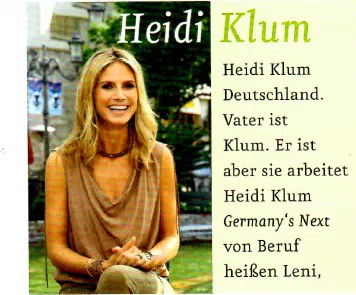
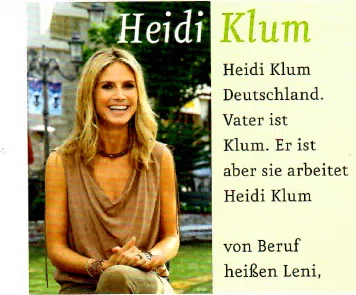
KB11 p18/p21/p23: italics, spacing, row width fixes

Changed region(s): [[0.618, 0.7017, 0.927, 0.7932]]

diff --git a/src/components/NativeKb11.tsx b/src/components/NativeKb11.tsx
@@ -33,7 +33,7 @@ function Inner({data}:{data:NativePage}){
  return <div className="nkb" data-native-page={data.page} data-native-book="kb-a11" style={{'--paper':data.paper||'#fdfcf8','--ratio':W/H,'--nkb-tool':data.audio.length?'46px':'0px'} as CSSProperties}>
   <div className="nkbCanvas" ref={root} style={{aspectRatio:`${W}/${H}`}}>
    {data.art.map((a,i)=><PageImage key={i} className="nkbArt" src={a.src} alt="" draggable={false} style={pos(a.x,a.y,a.w,a.h)}/>)}
-   {(data.blocks||[]).map((bl,i)=><div key={'b'+i} className={'nkbLine'+(bl.sb?' nkbSB':bl.b?' nkbB':'')+(bl.sa?' nkbSans':'')} data-tw={bl.w} style={{left:bl.x/W*100+'%',top:(bl.cy-bl.f*0.62)/H*100+'%',fontSize:bl.f/W*100+'cqw',lineHeight:1.24}}>{bl.ws.map((w,j)=>{const tap=/[A-Za-zÄÖÜäöüß]/.test(w.t);return <span key={j}>{j>0?' ':''}<span {...(tap?{className:'tapWord',role:'button',tabIndex:0,'data-word':w.t.replace(/^[.,!?„"()]+|[.,!?“"()]+$/g,''),'data-phrase':w.ph||w.t}:{})} style={{color:w.c,fontStyle:(w as any).i?'italic':undefined}}>{w.t}</span></span>})}</div>)}
+   {(data.blocks||[]).map((bl,i)=><div key={'b'+i} className={'nkbLine'+(bl.sb?' nkbSB':bl.b?' nkbB':'')+(bl.sa?' nkbSans':'')} data-tw={bl.w} style={{left:bl.x/W*100+'%',top:(bl.cy-bl.f*0.62)/H*100+'%',fontSize:bl.f/W*100+'cqw',lineHeight:1.24}}>{bl.ws.map((w,j)=>{const tap=/[A-Za-zÄÖÜäöüß]/.test(w.t);return <span key={j}>{j>0?' ':''}<span {...(tap?{className:'tapWord',role:'button',tabIndex:0,'data-word':w.t.replace(/^[.,!?„"()]+|[.,!?“"()\u2009]+$/g,''),'data-phrase':w.ph||w.t}:{})} style={{color:w.c,fontStyle:(w as any).i?'italic':undefined}}>{w.t}</span></span>})}</div>)}
    {lines.map((w,i)=>{const tap=/[A-Za-zÄÖÜäöüß]/.test(w.t);return <span key={i} className={'nkbWord nkbGhost'+(tap?' tapWord':'')} {...(tap?{role:'button',tabIndex:0,'data-word':w.t.replace(/^[.,!?„"()]+|[.,!?“"()]+$/g,''),'data-phrase':w.ph||w.t}:{})} style={pos(w.x,w.y,w.w,w.h)}>{w.t}</span>})}
    {data.fields.map(f=>{const rowSel=f.kind==='radio'?v[f.name||f.id]:undefined;const rowEmpty=f.kind==='radio'&&f.answer!==undefined&&!rowSel;const hid=f.kind==='radio'&&!rowEmpty&&rowSel!==f.value;const cls='nkbField'+((f as any).ul?' nkbUl':'')+(res[f.id]===undefined?'':rowEmpty?' bad':hid?'':res[f.id]?' ok':' bad');const common={key:f.id,className:cls,style:pos(f.x,f.y,f.w,f.h),'aria-label':f.label,'data-native-field':f.id};
     if(f.kind==='radio')return <input {...common} type="radio" name={key+'-'+(f.name||f.id)} checked={v[f.name||f.id]===f.value} onChange={()=>set(f.name||f.id,f.value!)}/>;
